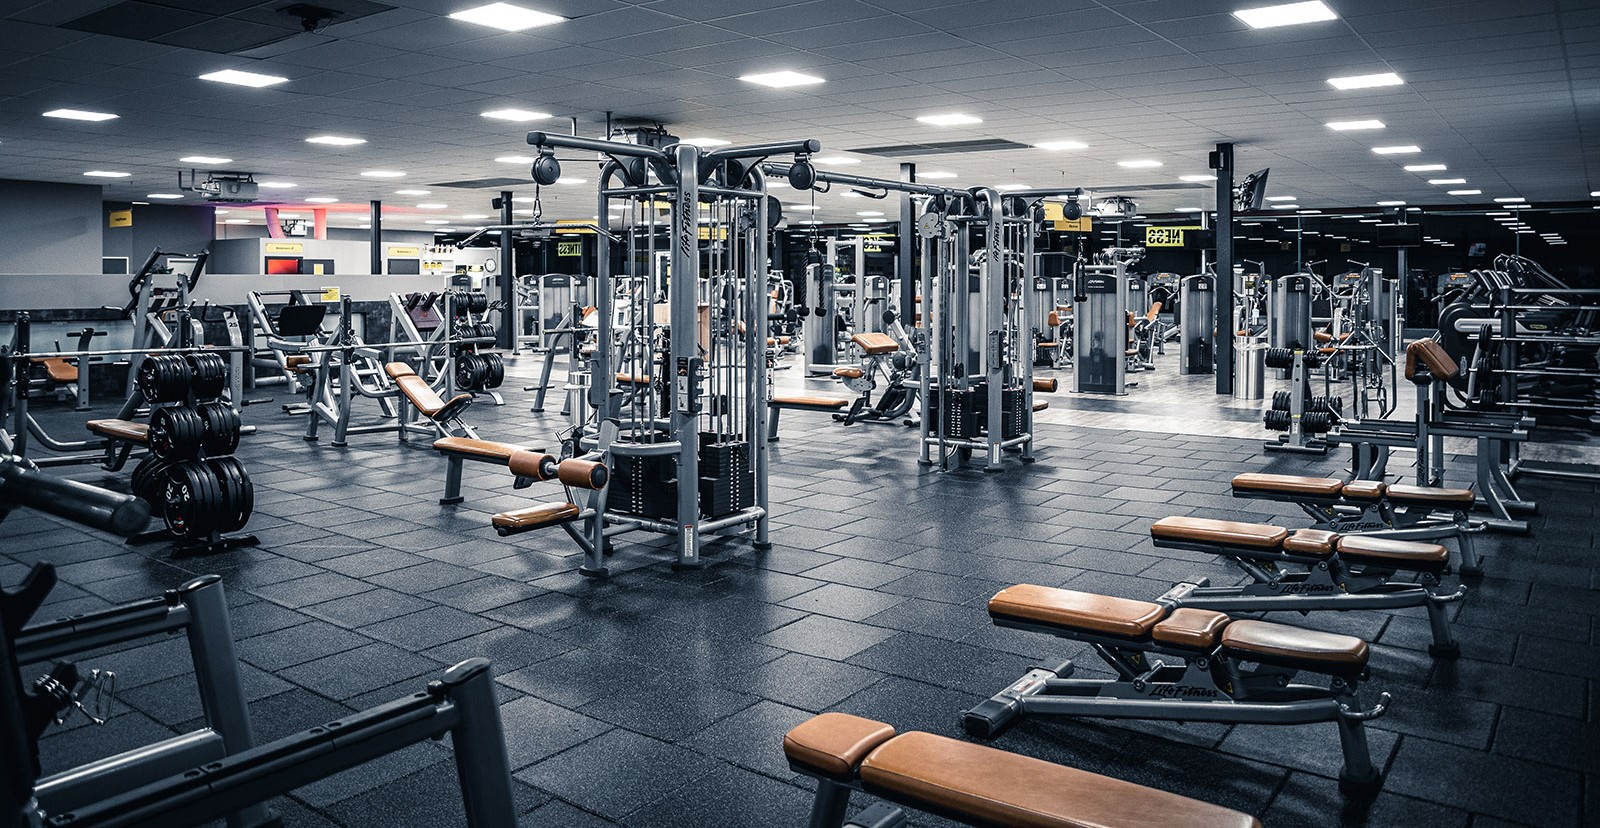
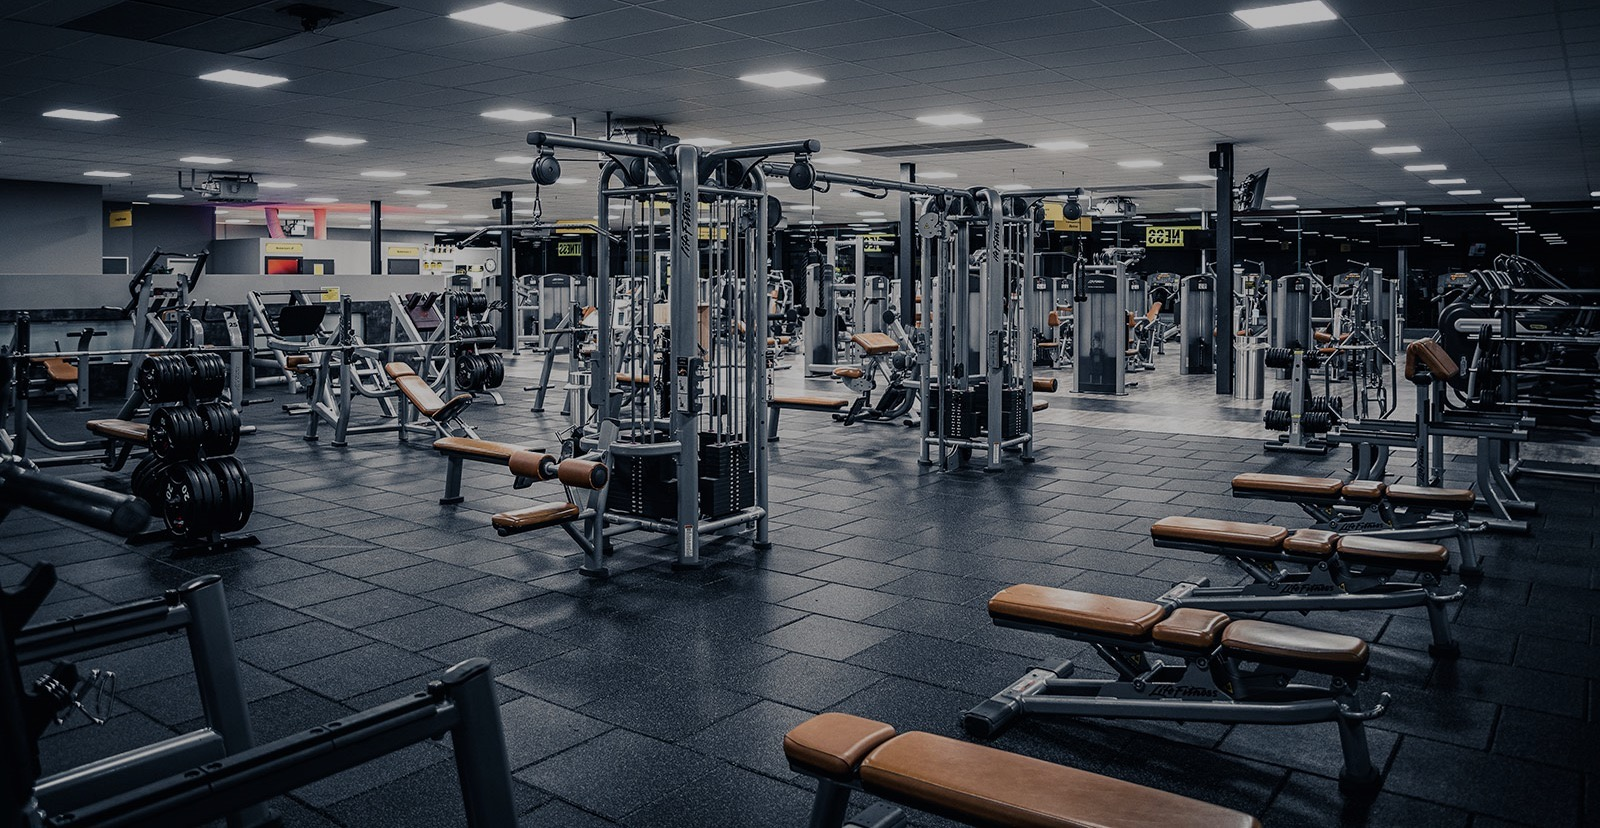
remove unused image and update styles in App component for better visibility and layout

diff --git a/src/App.tsx b/src/App.tsx
@@ -72,7 +72,7 @@ function App() {
             </NavigationMenuList>
           </NavigationMenu>
         </div>
-        <h1 className="text-6xl mb-20   sticky text-black font-bold ">
+        <h1 className="text-6xl m-20 sticky text-white font-bold ">
           Technologym
         </h1>
 
@@ -136,7 +136,7 @@ function App() {
                   required
                 ></input>
                 <div className="flex flex-row justify-center gap-3">
-                  <div>
+                  <div className="flex flex-row gap-2">
                     <input
                       type="radio"
                       id="männlich"
@@ -148,7 +148,7 @@ function App() {
                     />
                     <label htmlFor="männlich">männlich</label>
                   </div>
-                  <div>
+                  <div className="flex flex-row gap-2">
                     <input
                       type="radio"
                       id="weiblich"
